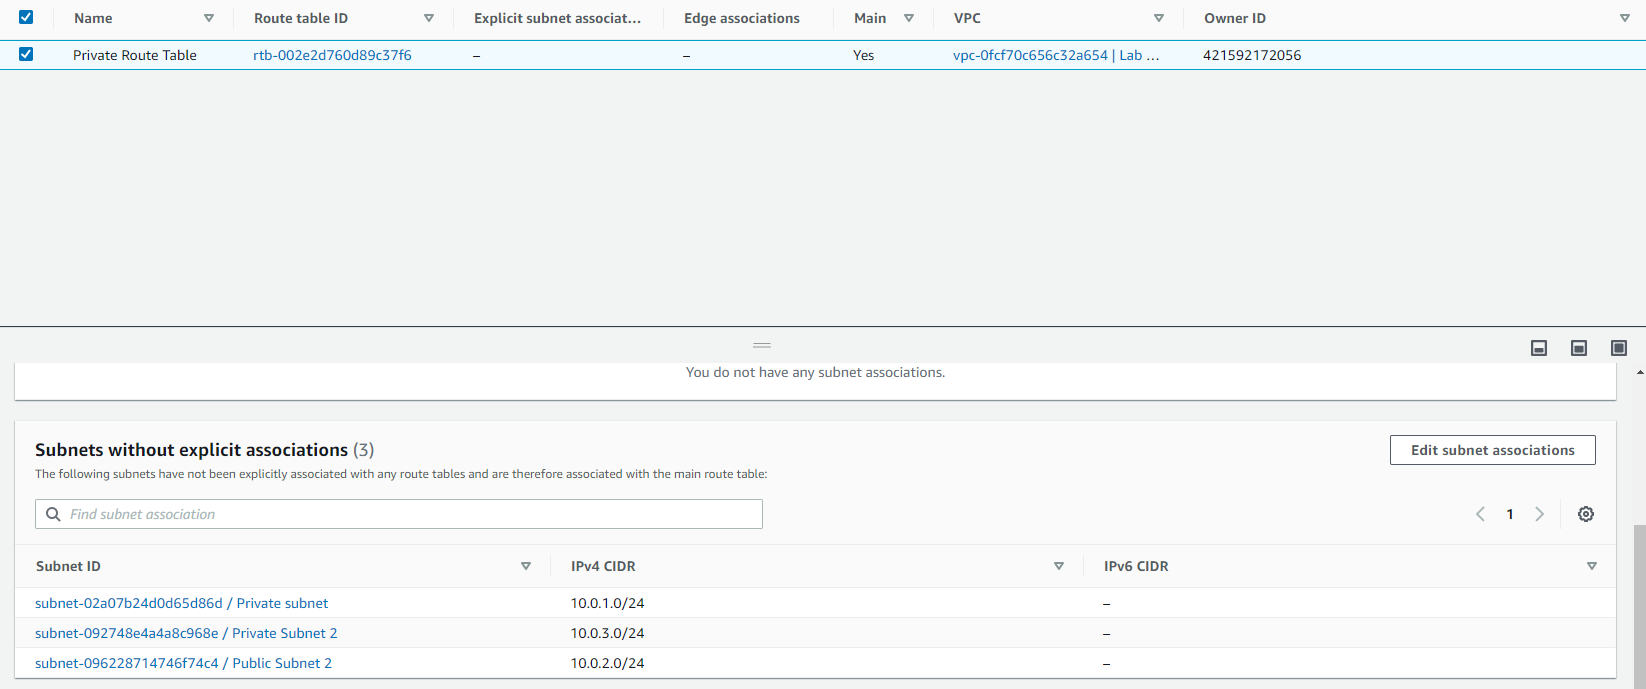
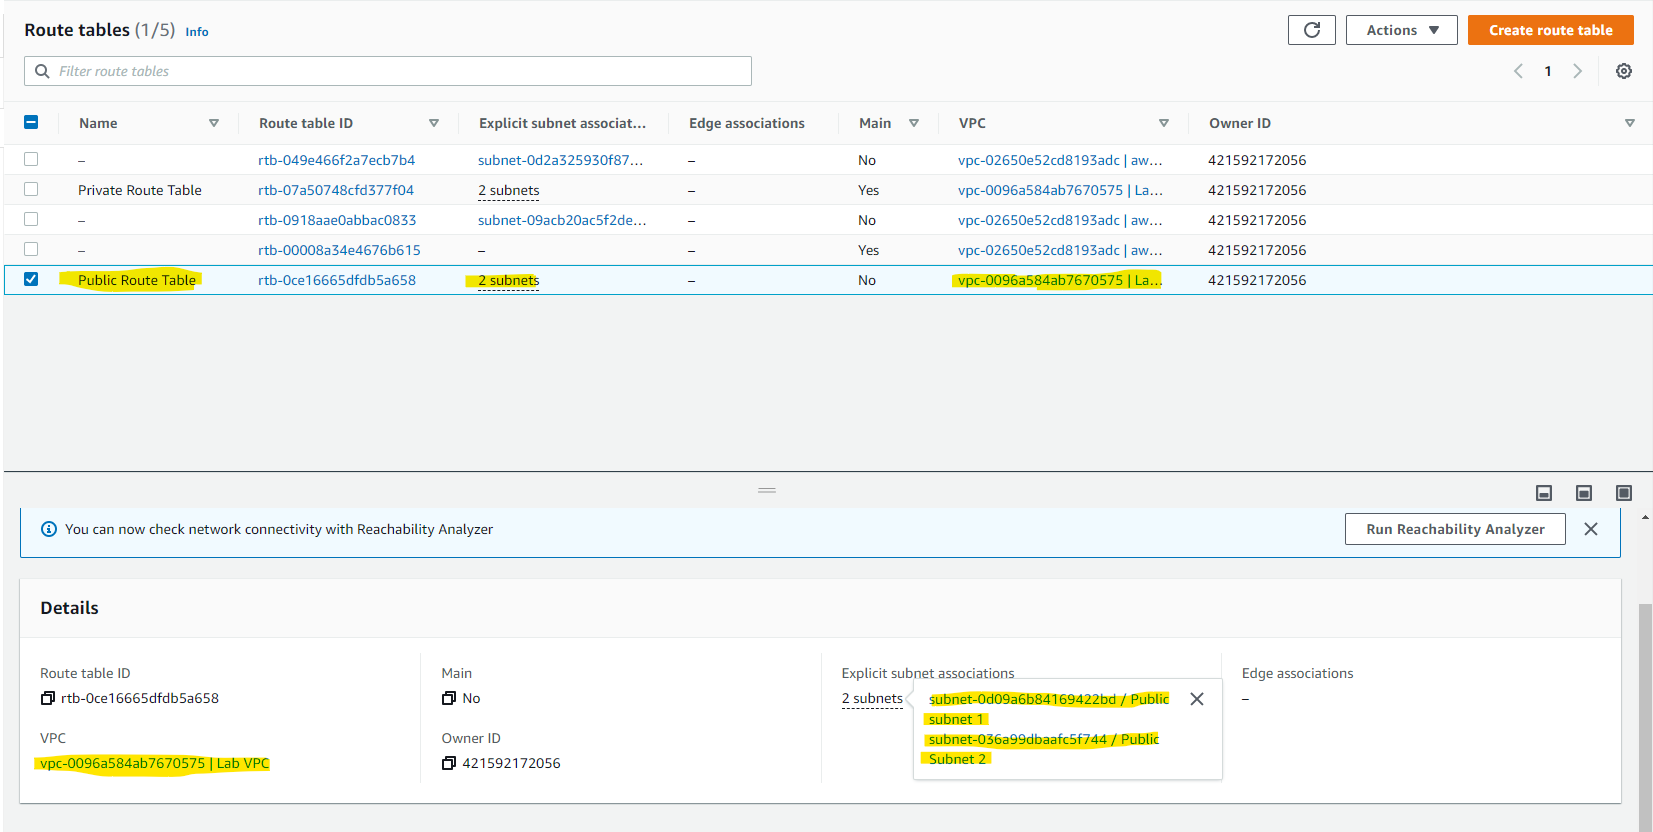
CLOUD

diff --git a/02_Cloud_1/AWS-16.MD b/02_Cloud_1/AWS-16.MD
@@ -1,0 +1,99 @@
+# Elastic Load Balancing (ELB) & Auto Scaling
+
+One of the main advantages of the cloud is that you don’t need to guess how much capacity you need. You can always scale up and down with on-demand services. One of the services that enables this is called Auto Scaling.When you run an application with a spiky workload, you can host the application on a fleet of EC2 instances instead of a single server. When the demand for the application is high, Auto Scaling can automatically add instances to the fleet. When the demand is lower, it can similarly remove instances. To make sure all servers are the same, Auto Scaling makes use of a (custom) AMI. Auto Scaling makes use of CloudWatch metrics to determine whether to add or remove instances.
+In a traditional architecture, a client connects to a single server with a single IP address. When dealing with a fleet of servers, this would not work. Therefore, a load balancer can be introduced as a connection endpoint for the client. The load balancer will forward the request to one of the servers in the fleet, and relay the response back to the client.
+
+AWS’ ELB services is a managed service that provides load balancing to a fleet of instances. There are three types of ELBs:
+
+- Application Load Balancer: this ELB works using HTTP and HTTPS protocols (layer 7 of the OSI stack).
+- Network Load Balancer: this ELB works using TCP and UDP (layer 4 of the OSI stack).
+- Classic Load Balancer: this ELB is outdated and not recommended for use. AWS has (so far) never stopped supporting any services. The reason for this is that it can harm existing applications.
+
+
+## Key-terms
+
+
+## Opdracht 1
+
+- Launch an EC2 instance with the following requirements:
+    - Region: Frankfurt (eu-central-1)
+    - AMI: Amazon Linux 2
+    - Type: t3.micro
+    - User data:
+
+        #!/bin/bash
+        # Install Apache Web Server and PHP
+        yum install -y httpd mysql php
+        # Download Lab files
+        wget https://aws-tc-largeobjects.s3.amazonaws.com/CUR-TF-100-RESTRT-1/80-lab-vpc-web-server/lab-app.zip
+        unzip lab-app.zip -d /var/www/html/
+        # Turn on web server
+        chkconfig httpd on
+        service httpd start
+        Security Group: Allow HTTP
+
+- Wait for the status checks to pass.
+
+![SCREENSHOT](../00_includes/Cloud16-1.png)
+
+- Create an AMI from your instance with the following requirements:
+    - Image name: Web server AMI
+
+
+## Opdracht 2
+
+- Create an application load balancer with the following requirements:
+    - Name: LabELB
+    - Listener: HTTP on port 80
+    - AZs: eu-central-1a and eu-central-1b
+    - Subnets: must be public
+- Security Group: 
+    - Name: ELB SG
+    - Rules: allow HTTP access
+- Target Group:
+    - Name: LabTargetGroup
+    - Targets: to be registered by Auto Scaling
+
+![SCREENSHOT](../00_includes/Cloud16-2.png)
+
+
+
+## Opdracht 3
+
+- Create a launch configuration for the Auto Scaling group. It has to be identical to the server that is currently running.
+- Create an auto scaling group with the following requirements:
+
+    - Name: Lab ASG
+    - Launch Configuration: Web server launch configuration
+    - Subnets: must be in eu-central-1a and eu-central-1b
+    - Load Balancer: LabELB
+    - Group metrics collection in CloudWatch must be enabled
+- Group Size:
+    - Desired Capacity: 2
+    - Minimum Capacity: 2
+    - Maximum Capacity: 4
+- Scaling policy: Target tracking with a target of 60% average CPU utilisation
+
+
+## Opdracht 4
+
+- Verify that the EC2 instances are online and that they are part of the target group for the load balancer.
+- Access the server via the ELB by using the DNS name of the ELB.
+- Perform a load test on your server(s) using the website on your server to activate auto scaling. There might be a delay on the creation of new servers in your fleet, depending on the settings on your Auto Scaling Group.
+
+![SCREENSHOT](../00_includes/Cloud16-4.png)
+
+
+## Gebruikte bronnen
+
+Geen
+
+## Ervaren problemen
+
+Geen
+
+## Resultaat
+
+Na het volgen van alle stappen is het mij in een gelukt om verbinding te maken met de ELB en de load test te starten.
+
+Resultaat is hier boven te zien. ↑↑↑

diff --git a/02_Cloud_1/AWS15.MD b/02_Cloud_1/AWS15.MD
@@ -9,8 +9,6 @@ When you create a VPC, you must assign a CIDR block. Choose your CIDR block and 
 Elastic IPs are also available from the VPC menu. EIPs are public IP addresses that can be dynamically allocated to resources like EC2 instances or NAT gateways.
 
 
-## Key-terms
-[Schrijf hier een lijst met belangrijke termen met eventueel een korte uitleg.]
 
 ## Opdracht 1
 
@@ -23,9 +21,6 @@ Elastic IPs are also available from the VPC menu. EIPs are public IP addresses t
     - Name: Lab VPC
     - CIDR: 10.0.0.0/16
 
-![SCREENSHOT](../00_includes/Cloud15-1.png)
-
-
 - Requirements for the public subnet:
     - Name: Public subnet 1
     - CIDR: 10.0.0.0/24
@@ -37,25 +32,91 @@ Elastic IPs are also available from the VPC menu. EIPs are public IP addresses t
     - CIDR: 10.0.1.0/24
     - AZ: eu-central-1a
 
-![SCREENSHOT](../00_includes/Cloud15-2.png)
+    ![SCREENSHOT](../00_includes/Cloud15-2.png)
+
+
+
+## Opdracht 2
+
+- Create an additional public subnet with the following requirements:
+    - VPC: Lab VPC
+    - Name: Public Subnet 2
+    - AZ: eu-central-1b
+    - CIDR: 10.0.2.0/24
+- Create an additional private subnet with the following requirements:
+    - VPC: Lab VPC
+    - Name: Private Subnet 2
+    - AZ: eu-central-1b
+    - CIDR: 10.0.3.0/24
+
+    ![SCREENSHOT](../00_includes/Cloud15-1.png)
 
 
 - View the main route table for Lab VPC. It should have an entry for the NAT gateway. Rename this route table to Private Route Table.
+Explicitly associate the private route table with your two private subnets.
 
-- Explicitly associate the private route table with your two private subnets.
+![SCREENSHOT](../00_includes/Cloud15-4.png)
+
+- View the other route table for Lab VPC. It should have an entry for the internet gateway. Rename this route table to Public Route Table.
+- Explicitly associate the public route table to your two public subnets.
 
 ![SCREENSHOT](../00_includes/Cloud15-3.png)
 
 
 
+## Opdracht 3
+
+- Create a Security Group with the following requirements:
+
+    - Name: Web SG
+    - Description: Enable HTTP Access
+    - VPC: Lab VPC
+    - Inbound rule: allow HTTP access from anywhere
+    - Outbound rule: Allow all traffic
+
+![SCREENSHOT](../00_includes/Cloud15-5.png)
+
+
+## Opdracht 4
+
+- Launch an EC2 instance with the following requirements:
+    - AMI: Amazon Linux 2
+    - Type: t3.micro
+    - Subnet: Public subnet 2
+    - Auto-assign Public IP: Enable
+    - User data:
+    
+        #!/bin/bash
+        # Install Apache Web Server and PHP
+        yum install -y httpd mysql php
+        # Download Lab files
+        wget https://aws-tc-largeobjects.s3.amazonaws.com/CUR-TF-100-RESTRT-1/80-lab-vpc-web-server/lab-app.zip
+        unzip lab-app.zip -d /var/www/html/
+        # Turn on web server
+        chkconfig httpd on
+        service httpd start
+
+    - Tag:
+    - Key: Name
+    - Value: Web server
+    - Security Group: Web SG
+    - Key pair: no key pair
+
+- Connect to your server using the public IPv4 DNS name.
+
+
+![SCREENSHOT](../00_includes/Cloud15-6.png)
 
 
 
 ### Gebruikte bronnen
-[Plaats hier de bronnen die je hebt gebruikt.]
+
+- Academy Cloud Operations - Sandbox Environment
 
 ### Ervaren problemen
-[Geef een korte beschrijving van de problemen waar je tegenaan bent gelopen met je gevonden oplossing.]
+
+Geen
 
 ### Resultaat
-[Omschrijf hoe je weet dat je opdracht gelukt is (gebruik screenshots waar nodig).]
+
+Ik vond het een makkelijke opdracht. Moet nog na gekeken worden.
